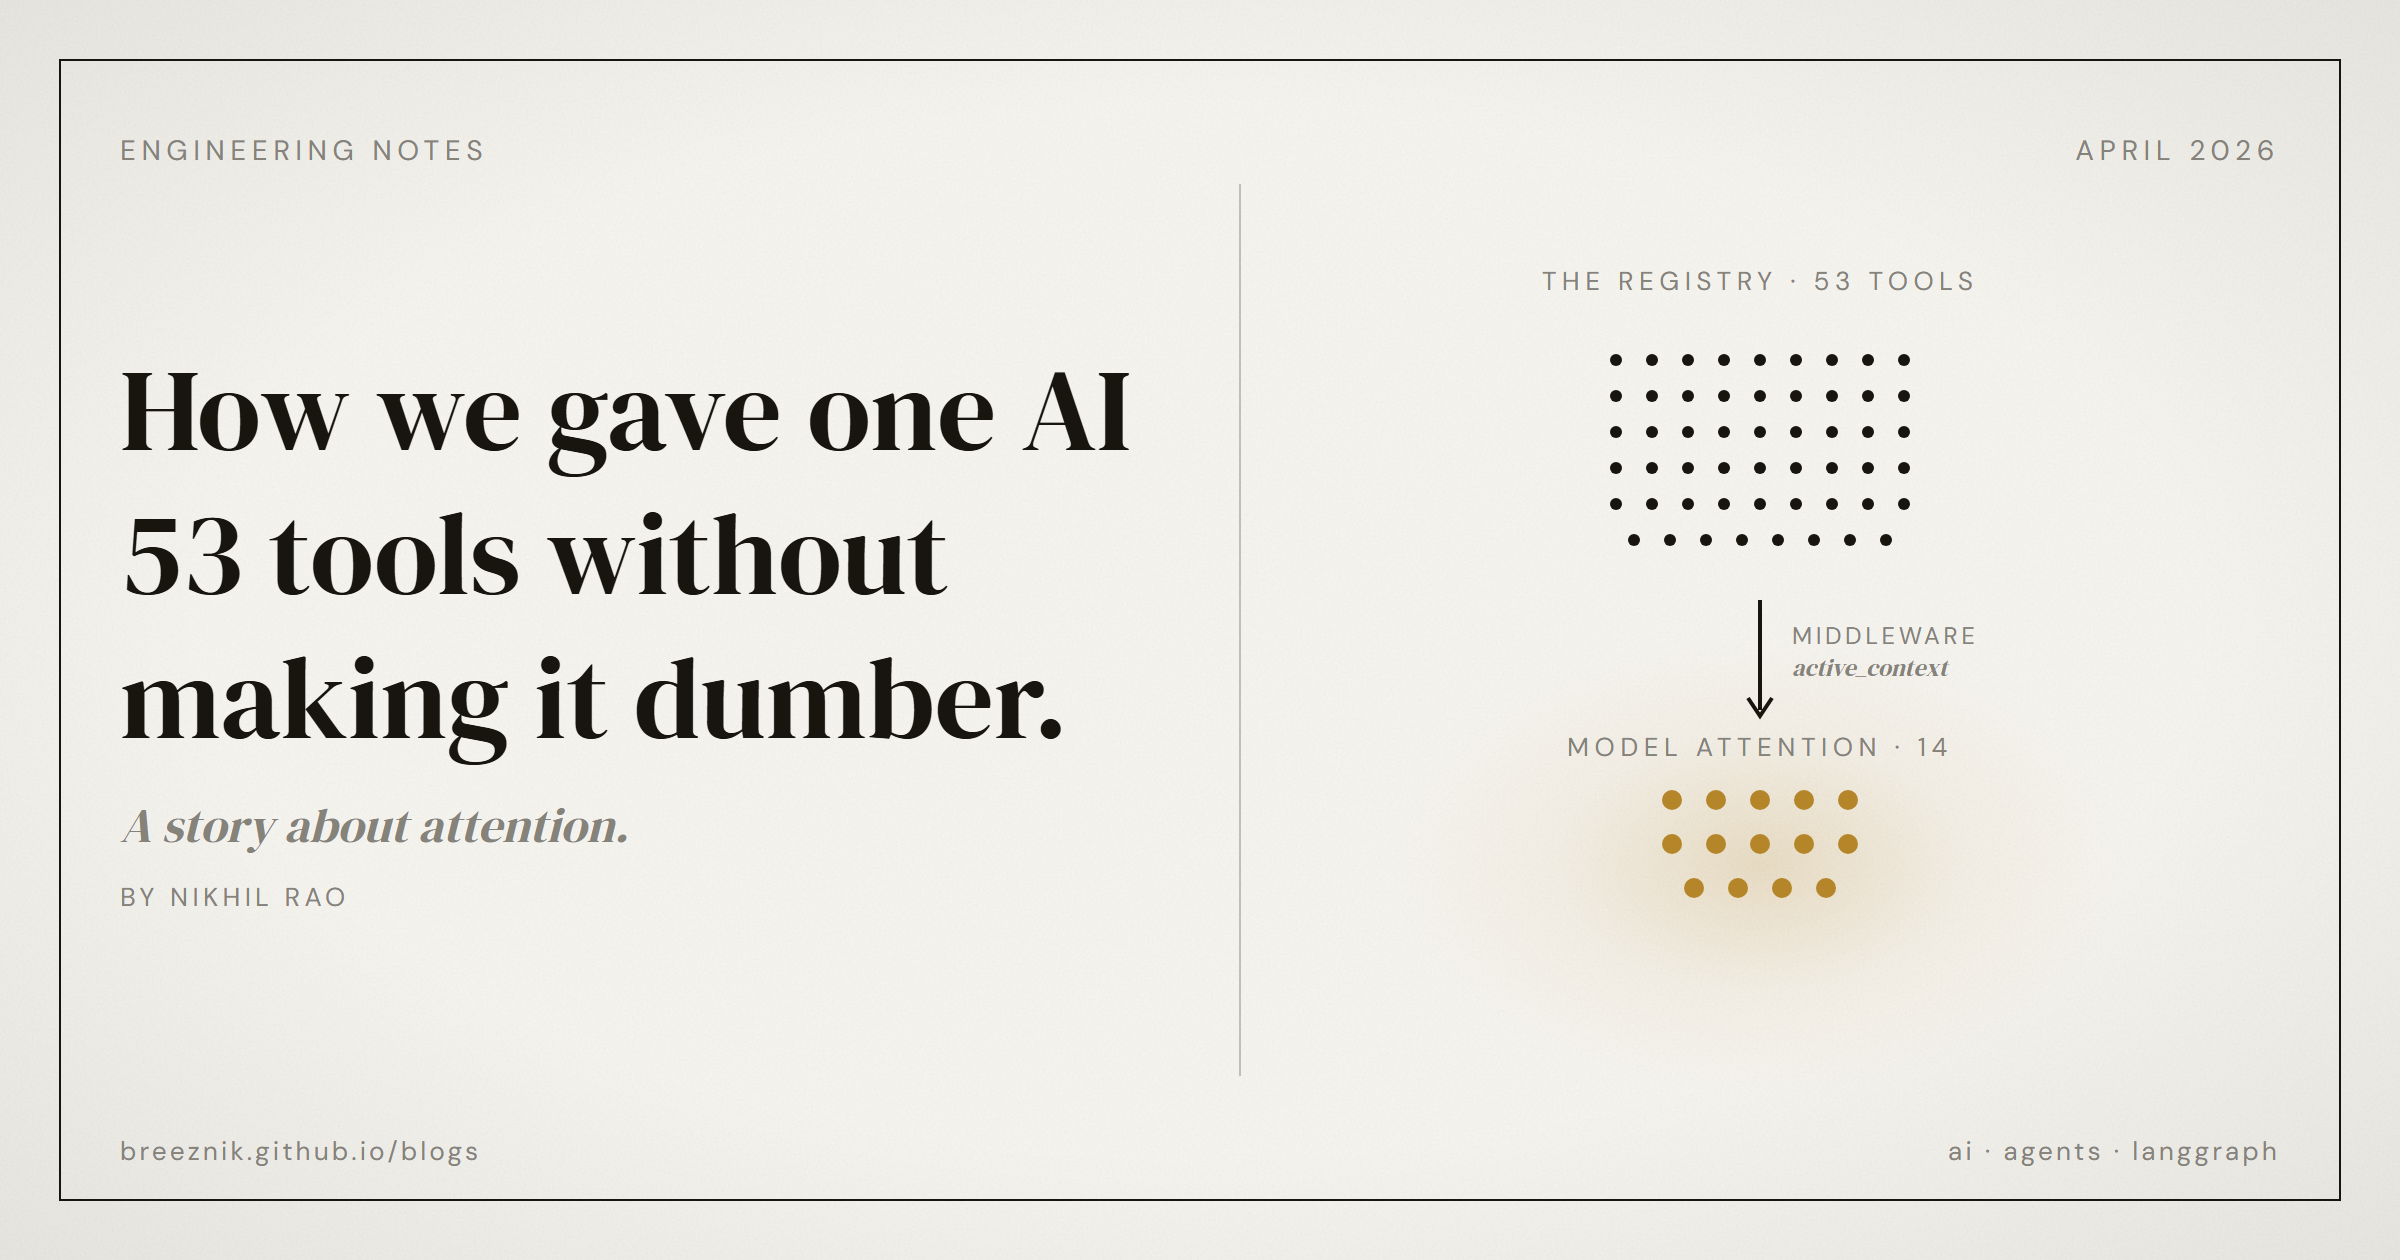
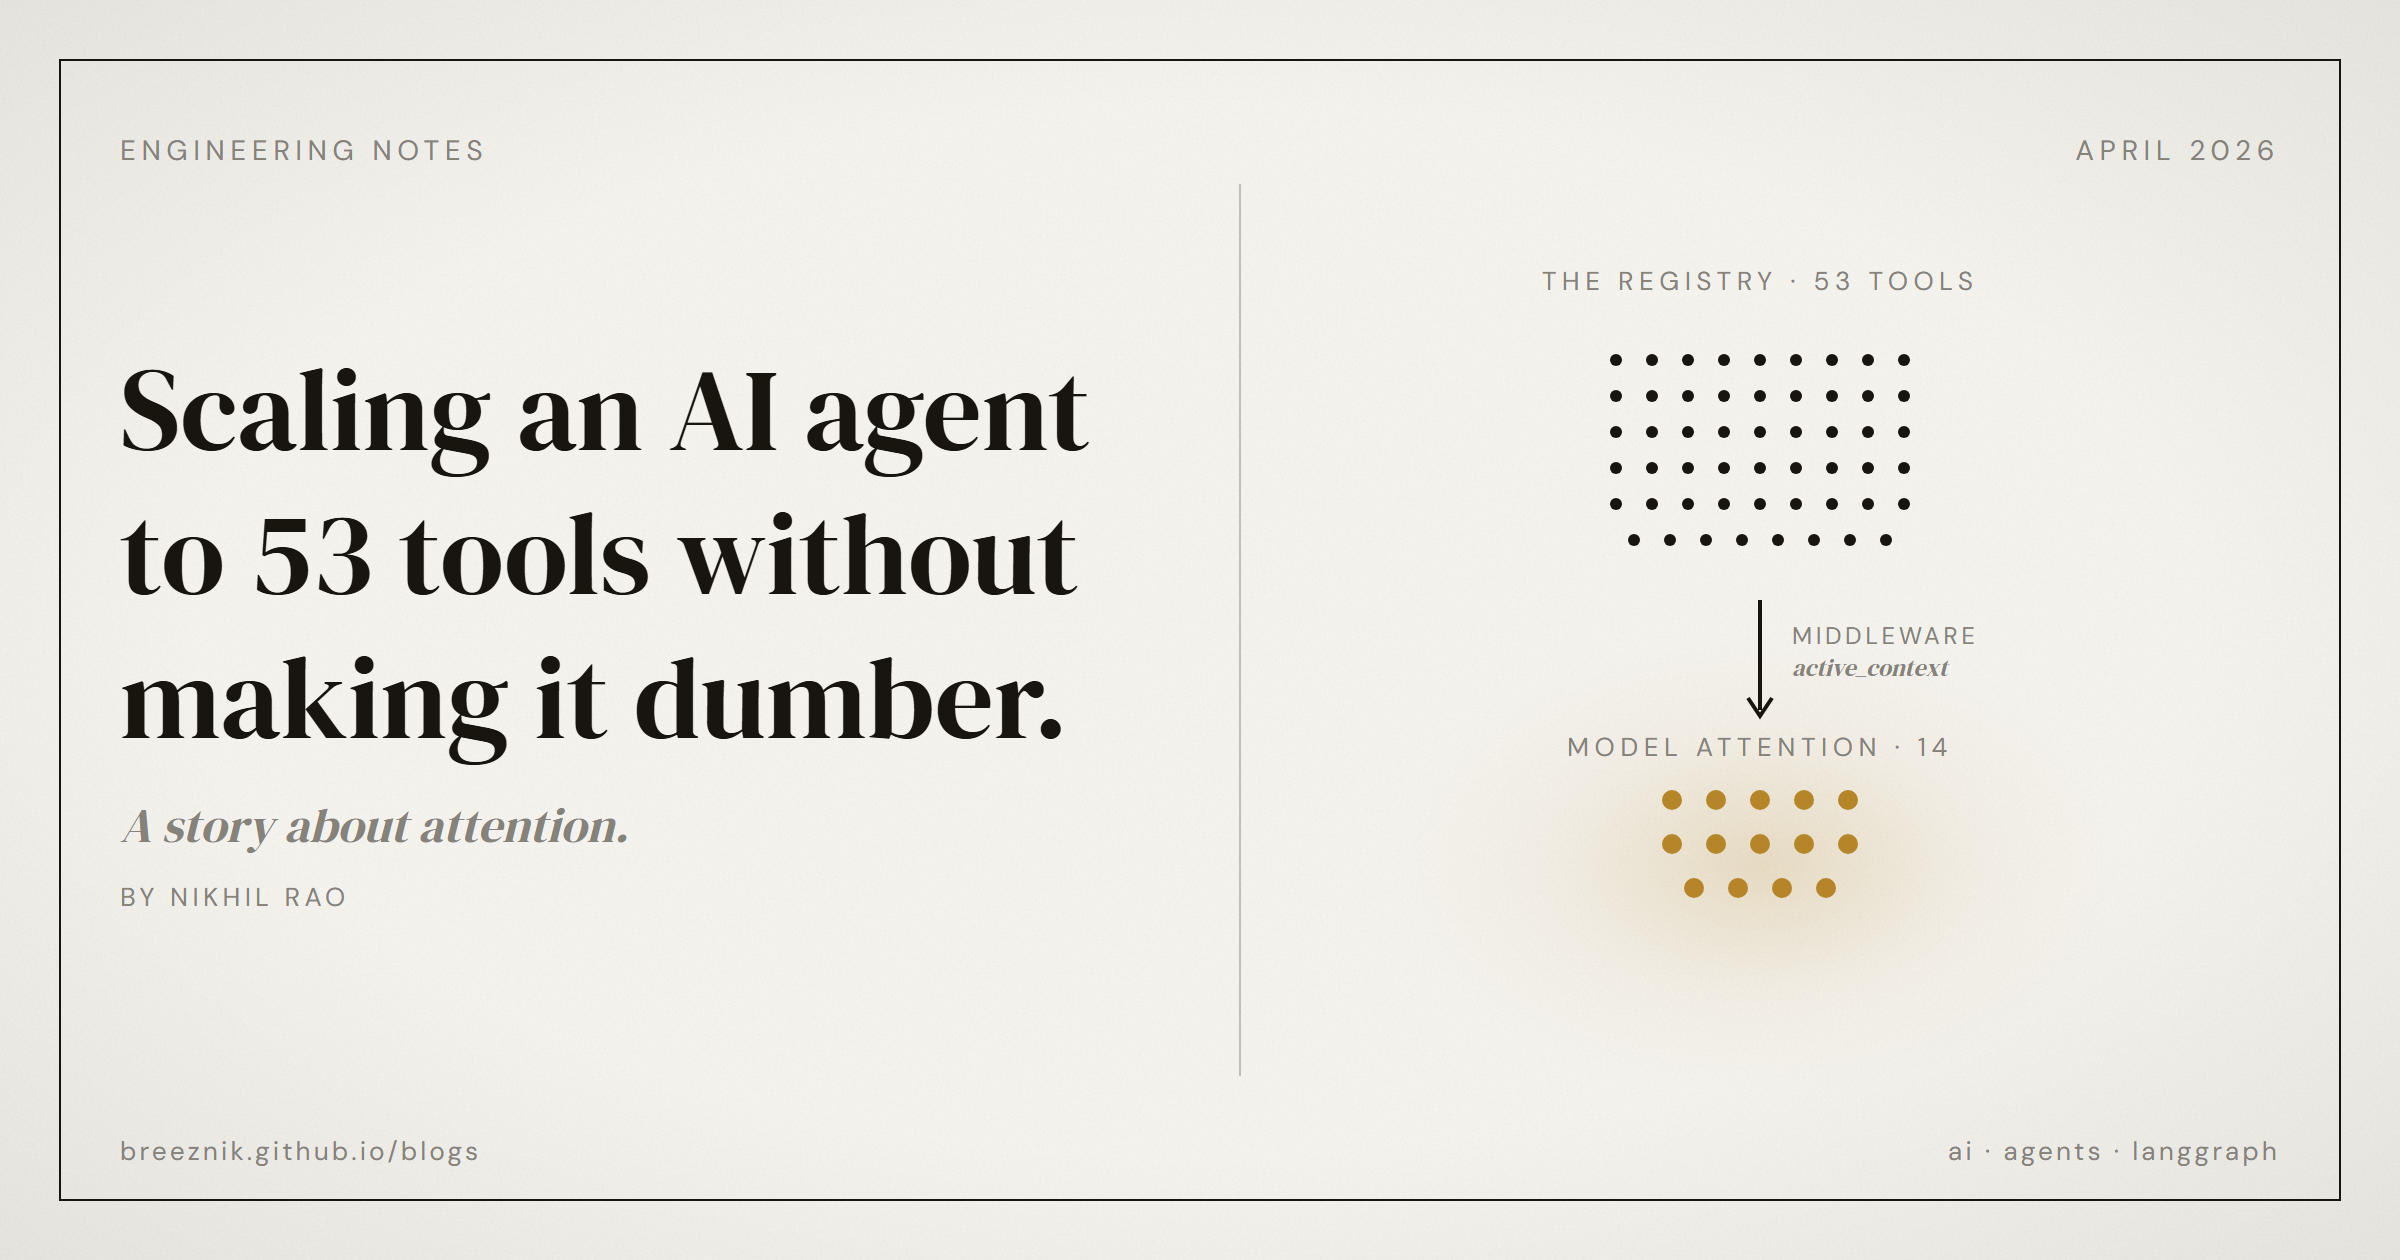
Rename scaling post title to front-load 'Scaling' for discoverability

Changed region(s): [[0.0312, 0.4024, 0.4688, 0.4952], [0.0312, 0.2786, 0.4688, 0.3714]]

diff --git a/_posts/2026-04-13-scaling-ai-agent-53-tools.md b/_posts/2026-04-13-scaling-ai-agent-53-tools.md
@@ -1,6 +1,6 @@
 ---
 layout: post
-title: "How we gave one AI agent 53 tools without making it dumber"
+title: "Scaling an AI agent to 53 tools without making it dumber"
 description: "A story about attention, and the three architectures it took to figure out that scaling AI agents isn't about picking tools, it's about managing what the model pays attention to."
 date: 2026-04-13
 permalink: /scaling-ai-agent-53-tools/
